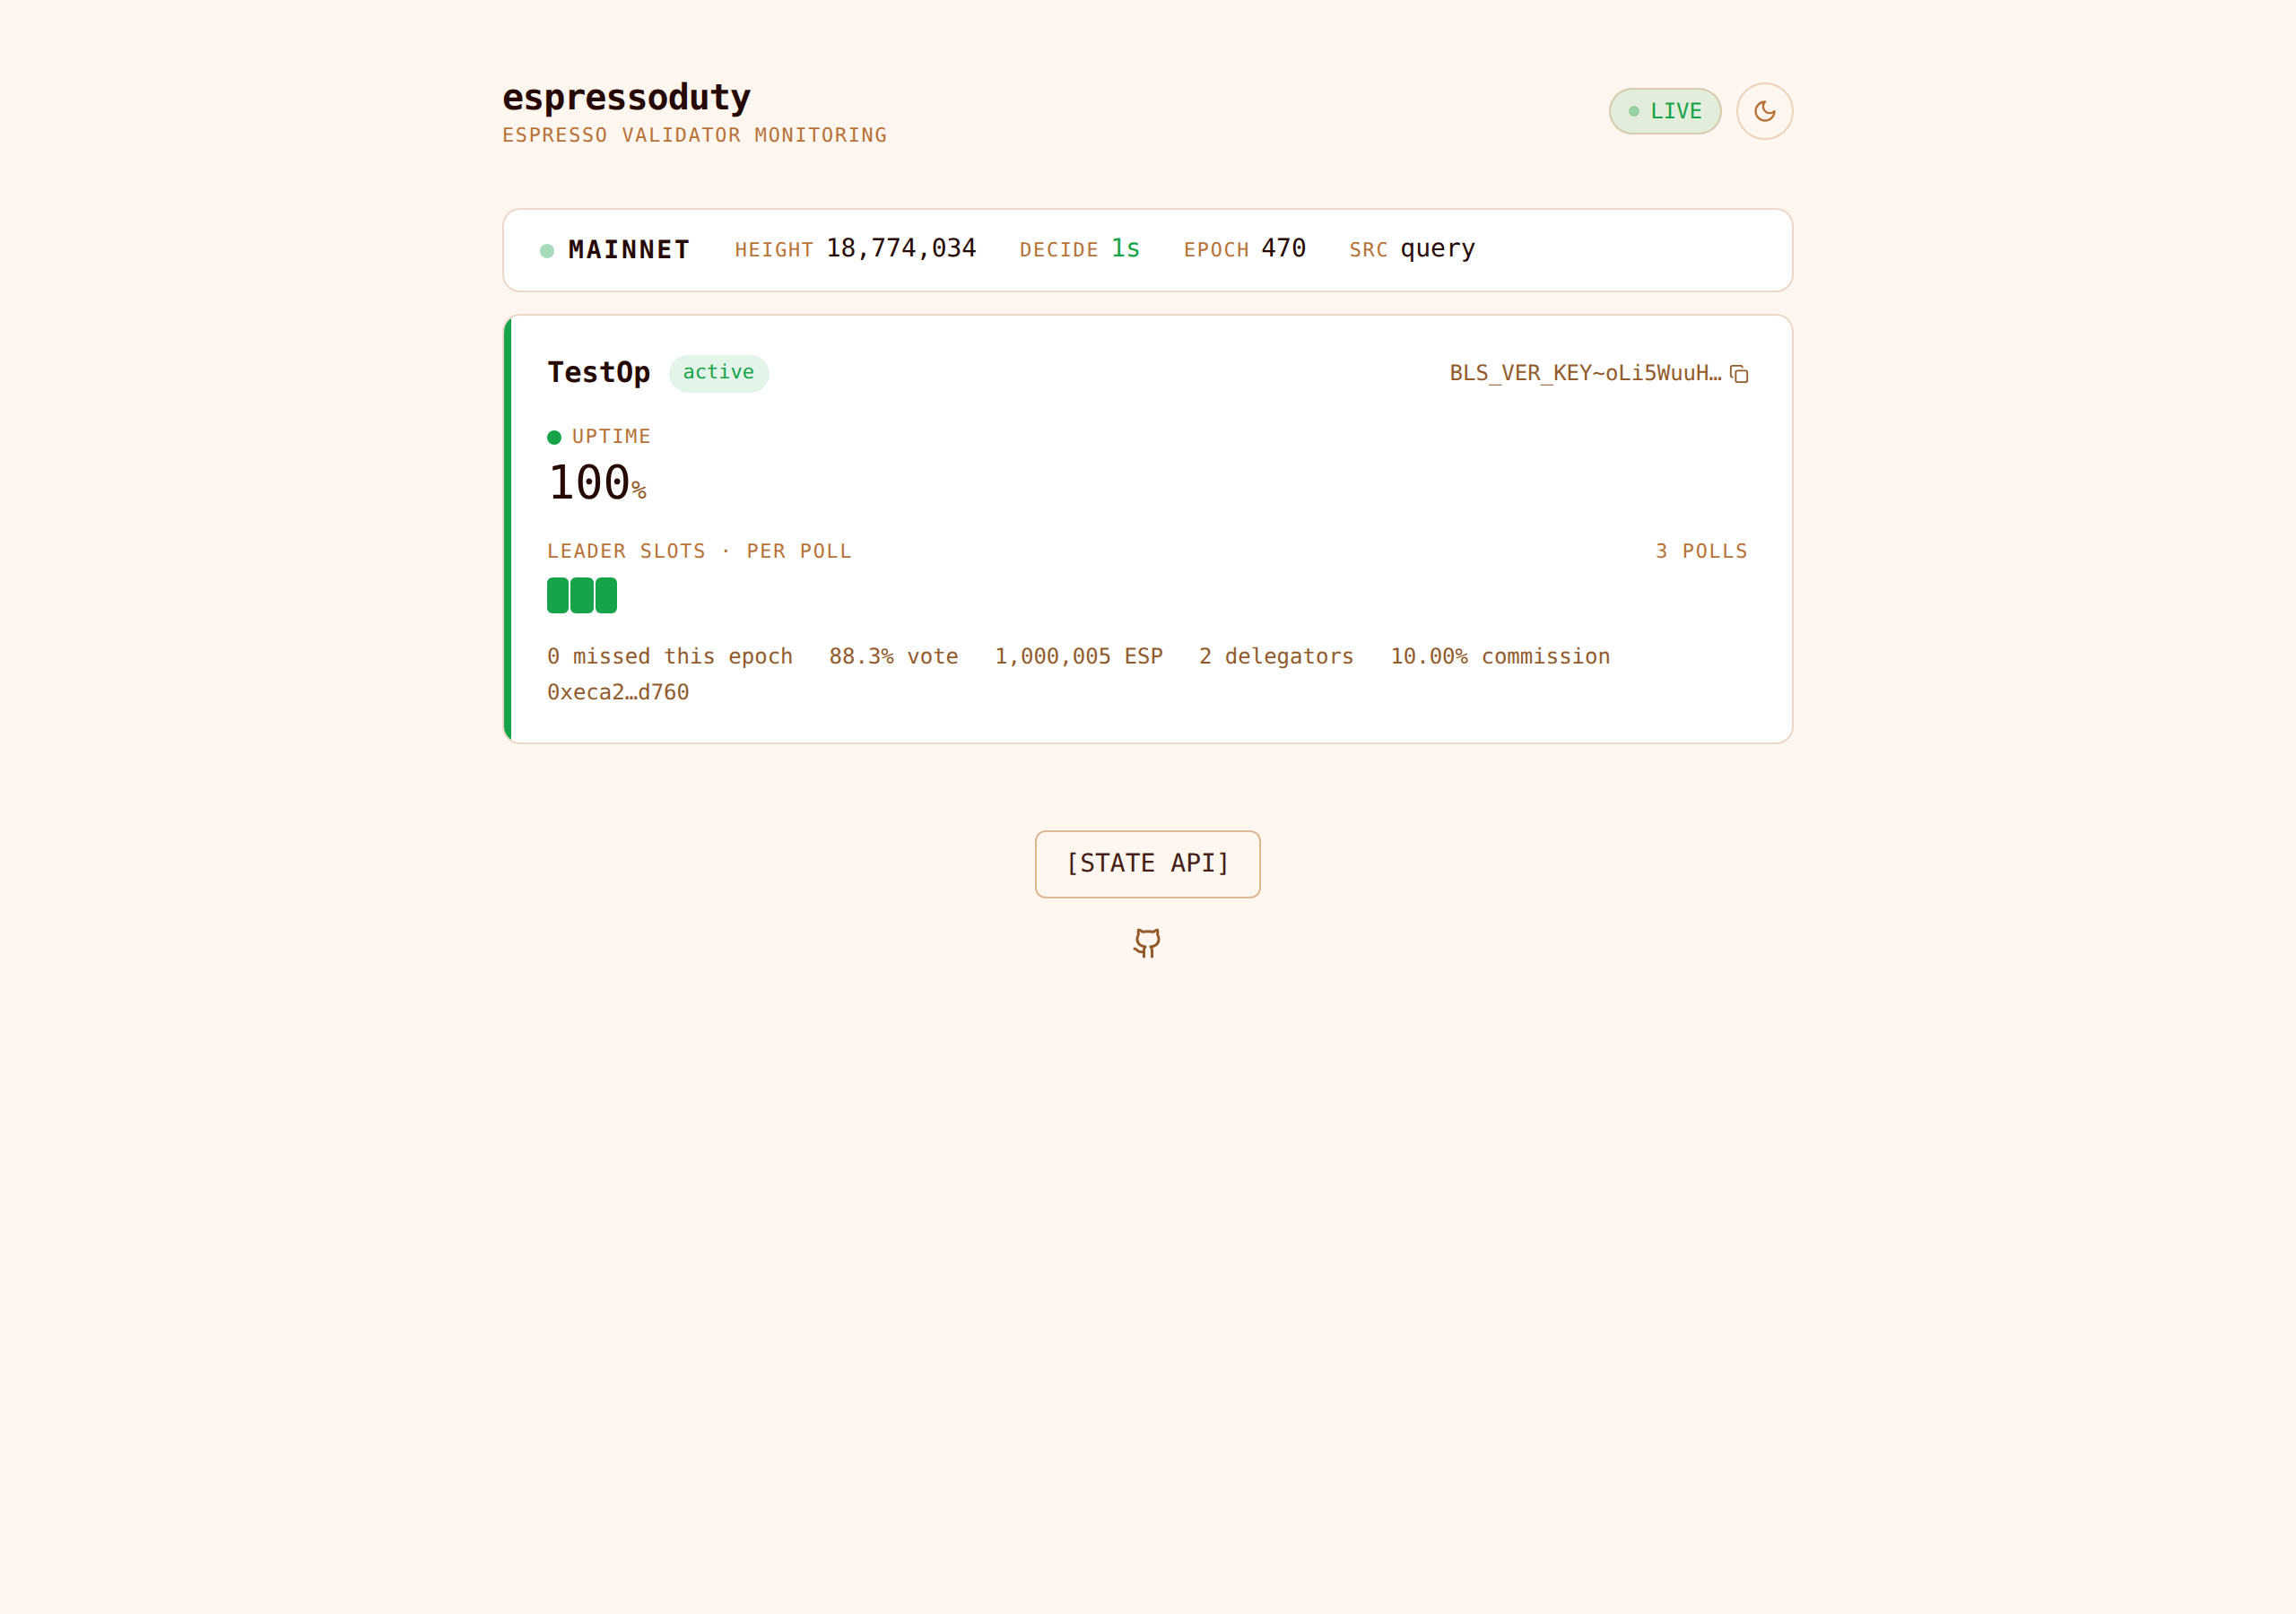
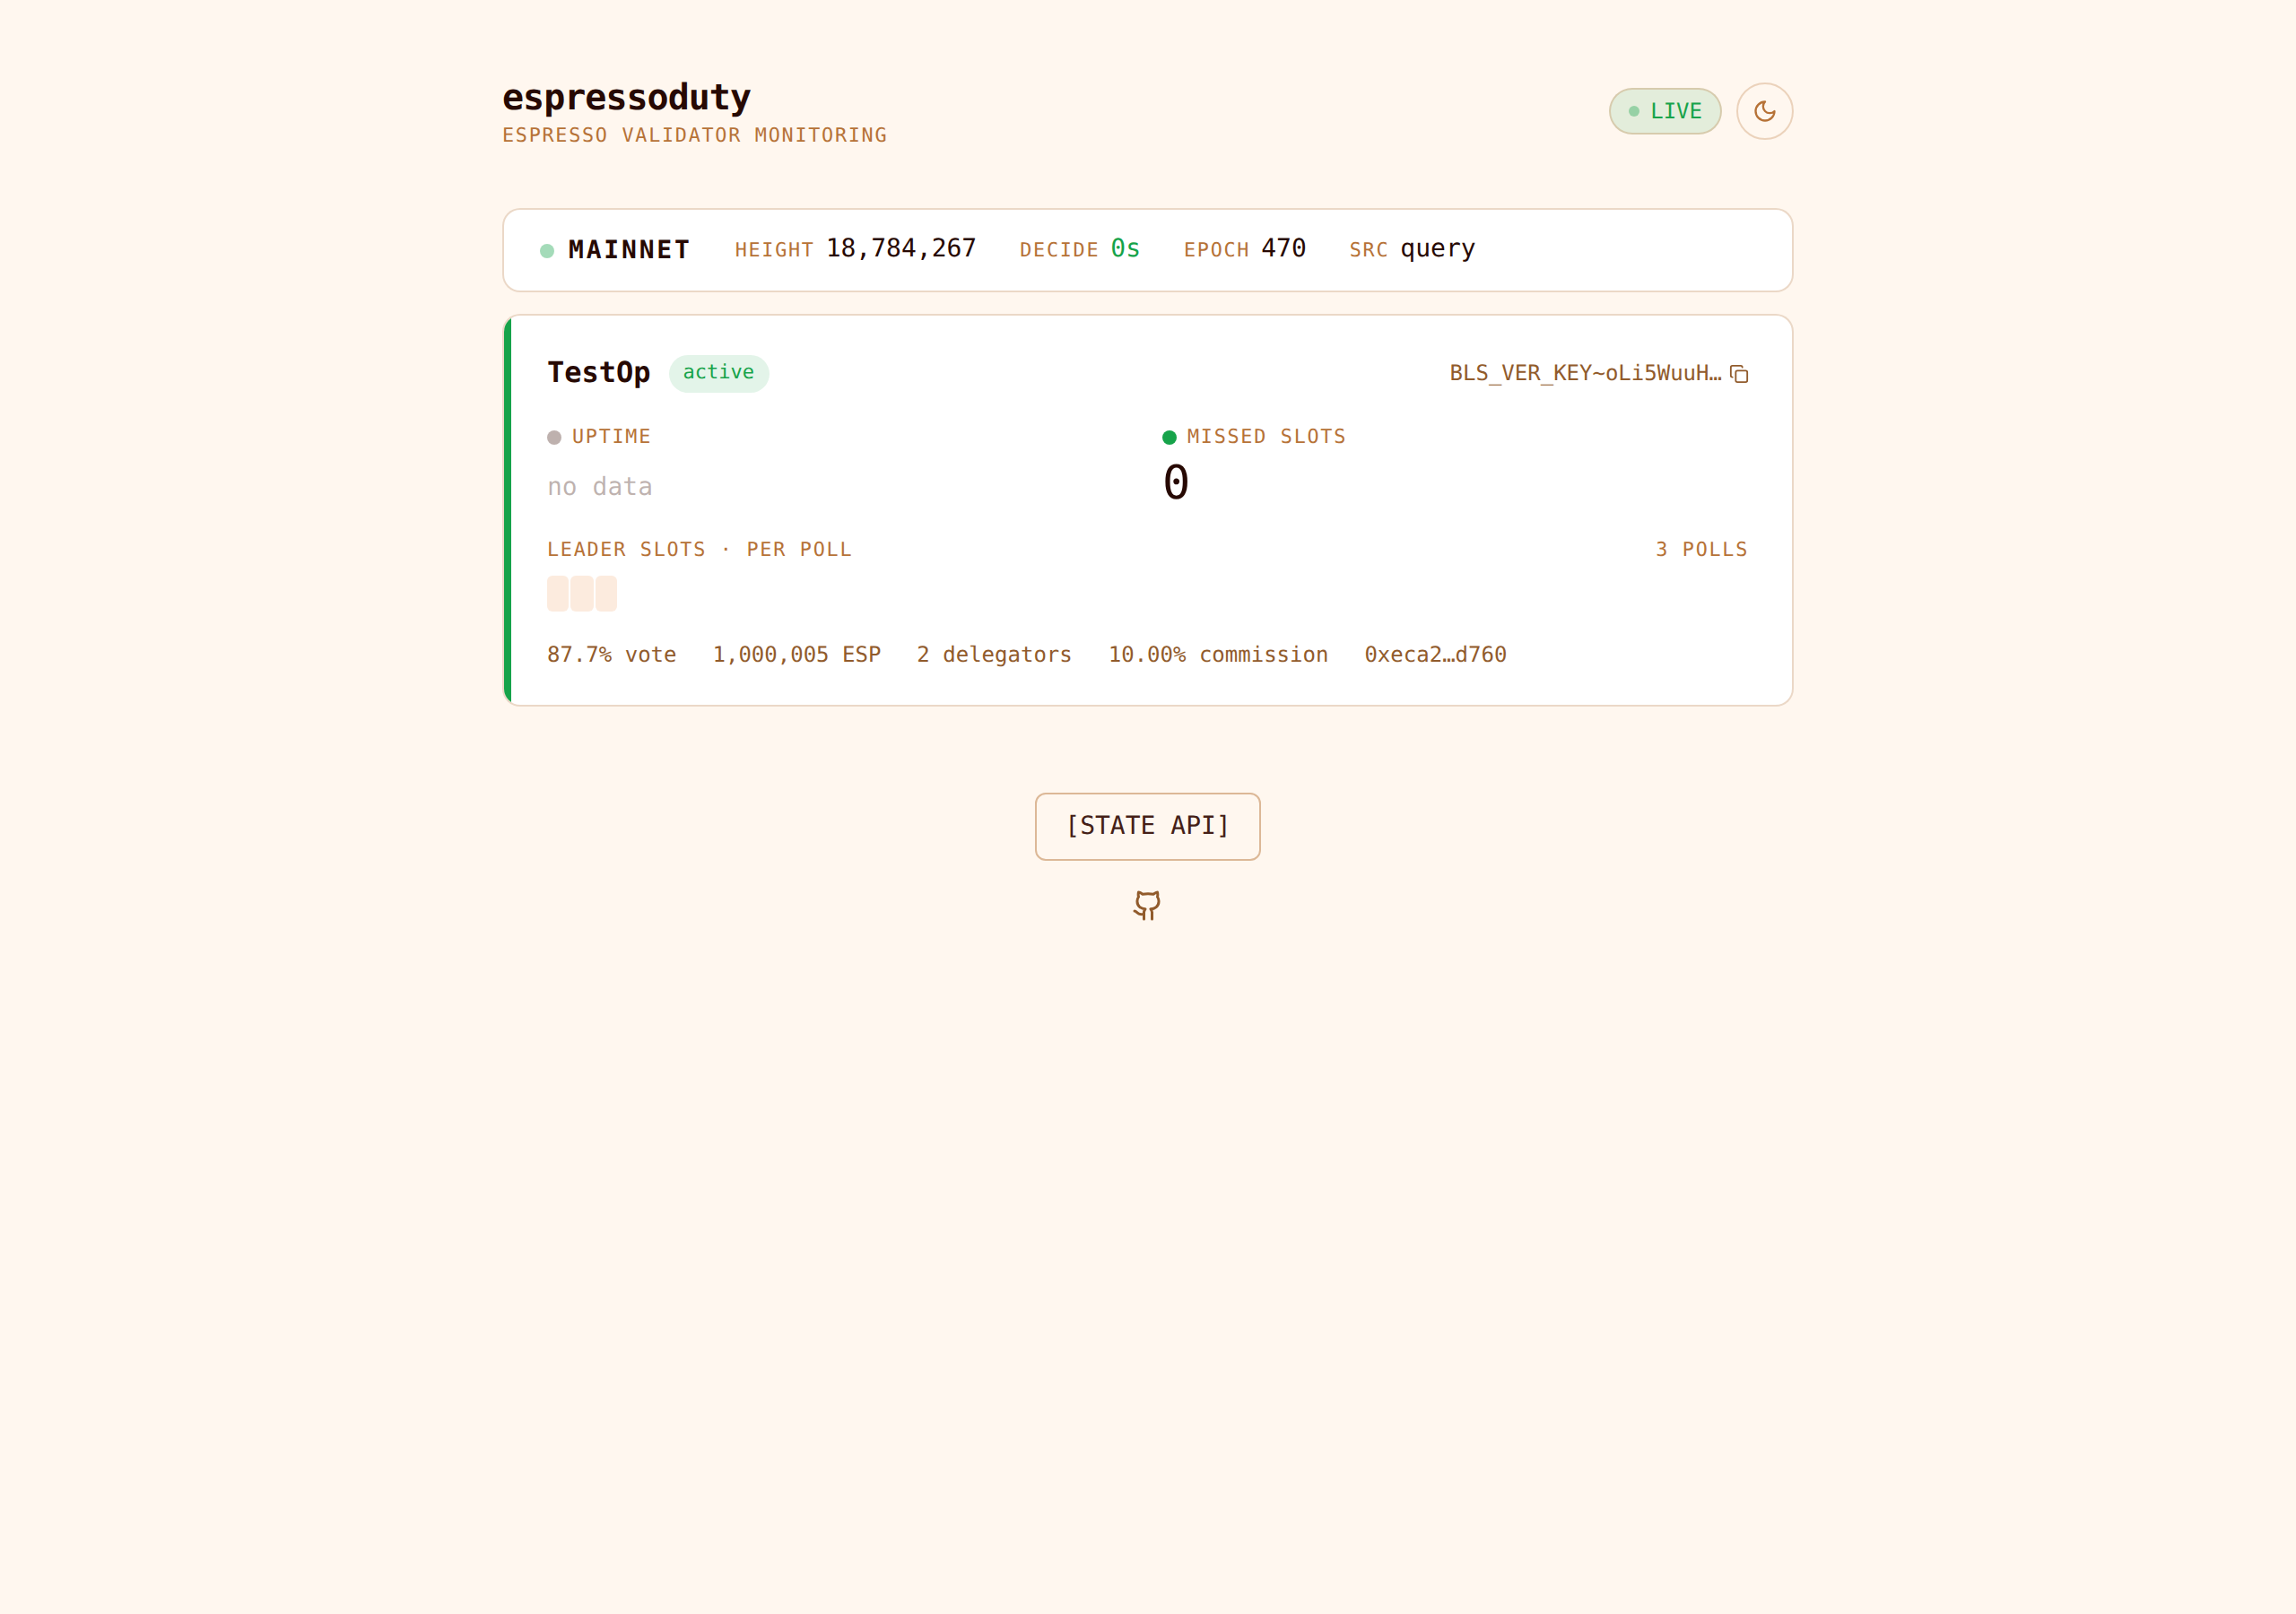
Missed-slot count beside uptime, escalation windows, BLS key lookup docs
The raw missed-slot count moves up from the stats row to a proper metric
beside uptime: exact numbers from the node's metrics when a local node
is configured (0 / 11, since node start), otherwise the miss events
observed this epoch. The dot turns red the moment the count is nonzero.

Alert cadence, per the operator's spec and all tunable:
- CONSECUTIVE_MISSES_WARN now defaults to 1: chat channels hear about
  the first missed leader slot; PagerDuty still waits for 3 in a row.
- The stuck window is time-based: last_decided_view must be frozen for
  STUCK_AFTER_MIN (5m) before the chat alert, replacing the 3-check
  (~45s) rule that fired on routine pauses in the live run.
- Local-down and stuck both escalate to PagerDuty only if the condition
  persists for LOCAL_DOWN_PAGE_MIN (10m), with paired resolves. Chat
  still hears about them immediately.

README: how to look up your BLS key from your L1 account via the public
API, and a line explaining what "decide" in the status bar means.

Claude-Session: https://claude.ai/code/session_01FRkiwdVzVrALZ52sRcU19e

diff --git a/src/lib/monitor.ts b/src/lib/monitor.ts
@@ -79,10 +79,10 @@ interface LocalMachine {
   /** Public query node used as the reference height for the lag check. */
   remoteBase: string | null;
   lastDecidedView: number | null;
-  stuckCount: number;
   stuckAlerted: boolean;
   stuckSince: number | null;
   stuckPdTriggered: boolean;
+  downPdTriggered: boolean;
 }
 
 const machines = new Map<NetworkName, NetworkMachine>();
@@ -787,8 +787,18 @@ async function pollLocalNode(): Promise<void> {
         title: 'Local node back online',
         lines: [`Reachable again${lm.downSince ? `, down for ${dur(lm.downSince)}` : ''}`],
       });
-      lm.downSince = null;
+      if (lm.downPdTriggered) {
+        lm.downPdTriggered = false;
+        await sendAlert({
+          severity: 'recovered',
+          title: 'Local node back online',
+          lines: ['Reachable again'],
+          dedupKey: 'espressoduty:local:down',
+          pagerduty: 'resolve',
+        });
+      }
     }
+    lm.downSince = null;
 
     // Lag is measured against a public query node, not our own view of the
     // height — the main client may itself be reading from the local node.
@@ -867,13 +877,14 @@ async function pollLocalNode(): Promise<void> {
               });
             }
           }
-          lm.stuckCount = 0;
           lm.stuckSince = null;
           view.stuck = false;
         } else if (networkOk) {
-          lm.stuckCount += 1;
           if (lm.stuckSince === null) lm.stuckSince = Date.now();
-          if (lm.stuckCount >= cfg.localDownFails) {
+          const stuckFor = Date.now() - lm.stuckSince;
+          // A view pausing for seconds is routine; only a sustained freeze
+          // while the network progresses is worth waking anyone for.
+          if (stuckFor >= cfg.stuckAfterMin * 60_000) {
             view.stuck = true;
             if (lm.initialized && !lm.stuckAlerted && cooldownOk('local:stuck')) {
               lm.stuckAlerted = true;
@@ -881,20 +892,20 @@ async function pollLocalNode(): Promise<void> {
                 severity: 'critical',
                 title: 'Node consensus stuck',
                 lines: [
-                  `last_decided_view has not advanced for ${lm.stuckCount} checks (view ${metrics.lastDecidedView})`,
+                  `last_decided_view frozen at ${metrics.lastDecidedView} for ${dur(lm.stuckSince)}`,
                   'The network is progressing, your node is not',
                 ],
               });
-              if (!lm.stuckPdTriggered) {
-                lm.stuckPdTriggered = true;
-                await sendAlert({
-                  severity: 'critical',
-                  title: 'Node consensus stuck',
-                  lines: [`View frozen at ${metrics.lastDecidedView}`],
-                  dedupKey: 'espressoduty:local:stuck',
-                  pagerduty: 'trigger',
-                });
-              }
+            }
+            if (lm.stuckAlerted && !lm.stuckPdTriggered && stuckFor >= cfg.localDownPageMin * 60_000) {
+              lm.stuckPdTriggered = true;
+              await sendAlert({
+                severity: 'critical',
+                title: 'Node consensus stuck',
+                lines: [`View frozen at ${metrics.lastDecidedView} for ${dur(lm.stuckSince)}`],
+                dedupKey: 'espressoduty:local:stuck',
+                pagerduty: 'trigger',
+              });
             }
           }
         }
@@ -910,13 +921,29 @@ async function pollLocalNode(): Promise<void> {
     if (lm.failCount >= cfg.localDownFails) {
       view.reachable = false;
       view.lagBlocks = null;
+      if (lm.downSince === null) lm.downSince = Date.now();
       if (lm.initialized && !lm.downAlerted && cooldownOk('local:down')) {
         lm.downAlerted = true;
-        lm.downSince = Date.now();
         await sendAlert({
           severity: 'critical',
           title: 'Local node unreachable',
           lines: [`${cfg.localNodeUrl} failed ${lm.failCount} consecutive checks`],
+        });
+      }
+      // Chat hears about it once, immediately; PagerDuty only if the node
+      // has not come back within the escalation window.
+      if (
+        lm.downAlerted &&
+        !lm.downPdTriggered &&
+        Date.now() - lm.downSince >= cfg.localDownPageMin * 60_000
+      ) {
+        lm.downPdTriggered = true;
+        await sendAlert({
+          severity: 'critical',
+          title: 'Local node unreachable',
+          lines: [`Down for ${dur(lm.downSince)}`],
+          dedupKey: 'espressoduty:local:down',
+          pagerduty: 'trigger',
         });
       }
     }
@@ -977,10 +1004,10 @@ export function startMonitoring(): void {
       initialized: false,
       remoteBase: mainnet?.queryNodes[0] ?? null,
       lastDecidedView: null,
-      stuckCount: 0,
       stuckAlerted: false,
       stuckSince: null,
       stuckPdTriggered: false,
+      downPdTriggered: false,
     };
     store.localNode = {
       url: cfg.localNodeUrl,

diff --git a/src/components/dashboard.tsx b/src/components/dashboard.tsx
@@ -284,37 +284,21 @@ function ValidatorCard({ v }: { v: ValidatorView }) {
       </div>
 
       {/* Leader duty is the health metric; everything else is context.
-          Shown as uptime (= proposal participation), the positive pole of
-          missed slots. */}
-      <div className="mb-4">
+          Uptime (= proposal participation) and the raw missed-slot count
+          side by side. */}
+      <div className="mb-4 grid grid-cols-2 gap-4">
         <Metric
           label="uptime"
           value={v.proposal}
           dot={missedColor(v.proposal === null ? null : 1 - v.proposal)}
           hint={v.proposal === null ? NO_SLOTS_HINT : undefined}
         />
+        <MissedCount v={v} />
       </div>
 
       <PollGrid samples={v.samples} />
 
       <p className="mt-4 flex flex-wrap gap-x-5 gap-y-1 text-xs" style={{ color: 'var(--muted)' }}>
-        <span
-          title={
-            v.leaderSlots !== null
-              ? 'Exact counts from your node since it started'
-              : 'Missed-slot events observed this epoch'
-          }
-          style={{
-            color:
-              (v.leaderSlots !== null ? (v.missedLeaderSlots ?? 0) : v.epochMissCount) > 0
-                ? 'var(--crit)'
-                : 'var(--muted)',
-          }}
-        >
-          {v.leaderSlots !== null
-            ? `missed ${v.missedLeaderSlots ?? 0}/${v.leaderSlots} slots`
-            : `${v.epochMissCount} missed this epoch`}
-        </span>
         <span title="Informational: measures the QC quorum race (latency), not node health">
           {v.vote === null ? '— vote' : `${fmtPct(v.vote, 1)} vote`}
         </span>
@@ -324,6 +308,41 @@ function ValidatorCard({ v }: { v: ValidatorView }) {
         {v.account && (
           <span className="tabular-nums" title={v.account}>
             {v.account.slice(0, 6)}…{v.account.slice(-4)}
+          </span>
+        )}
+      </p>
+    </div>
+  );
+}
+
+/**
+ * Raw missed-slot count: exact numbers from the node's own metrics when a
+ * local node is configured (since node start), otherwise the miss events
+ * observed this epoch.
+ */
+function MissedCount({ v }: { v: ValidatorView }) {
+  const local = v.leaderSlots !== null;
+  const count = local ? (v.missedLeaderSlots ?? 0) : v.epochMissCount;
+  return (
+    <div
+      title={
+        local
+          ? `${count} of ${v.leaderSlots} leader slots missed since the node started`
+          : 'Missed-slot events observed this epoch'
+      }
+    >
+      <p className="mb-1 flex items-center gap-1.5">
+        <span
+          className="h-2 w-2 shrink-0 rounded-full"
+          style={{ background: count > 0 ? 'var(--crit)' : 'var(--ok)' }}
+        />
+        <span className="label">missed slots</span>
+      </p>
+      <p className="text-[26px] font-medium leading-none tabular-nums" style={{ color: 'var(--text-strong)' }}>
+        {count}
+        {local && (
+          <span className="text-sm" style={{ color: 'var(--muted)' }}>
+            {' '}/ {v.leaderSlots}
           </span>
         )}
       </p>

diff --git a/src/lib/config.ts b/src/lib/config.ts
@@ -33,6 +33,10 @@ export interface Config {
    */
   consecutiveMissesWarn: number;
   consecutiveMissesCrit: number;
+  /** Minutes the local node may stay down/stuck before PagerDuty is paged. */
+  localDownPageMin: number;
+  /** Minutes without view progress before the stuck alert fires. */
+  stuckAfterMin: number;
   /** Display thresholds for the missed-slots color only, never alerts. */
   missedWarn: number;
   missedCritical: number;
@@ -108,8 +112,10 @@ export function loadConfig(): Config {
   cached = {
     networks,
     localNodeUrl: str('LOCAL_NODE_URL') || null,
-    consecutiveMissesWarn: Math.max(1, num('CONSECUTIVE_MISSES_WARN', 2)),
+    consecutiveMissesWarn: Math.max(1, num('CONSECUTIVE_MISSES_WARN', 1)),
     consecutiveMissesCrit: Math.max(2, num('CONSECUTIVE_MISSES_CRIT', 3)),
+    localDownPageMin: Math.max(1, num('LOCAL_DOWN_PAGE_MIN', 10)),
+    stuckAfterMin: Math.max(1, num('STUCK_AFTER_MIN', 5)),
     missedWarn: num('MISSED_WARN', 0.5),
     missedCritical: num('MISSED_CRITICAL', 0.9),
     decideStallSec: num('DECIDE_STALL_SEC', 60),

diff --git a/README.md b/README.md
@@ -31,10 +31,10 @@ espressoduty.
 The cumulative proposal rate only moves when your validator is leader, so
 its per-poll change is a real event:
 
-- rate fell = **missed leader slot**. `CONSECUTIVE_MISSES_WARN` (2) in a
-  row → Telegram / Slack / Discord; `CONSECUTIVE_MISSES_CRIT` (3) →
-  PagerDuty. One isolated miss can be bad luck; a streak means the node is
-  failing its critical duty.
+- rate fell = **missed leader slot**. `CONSECUTIVE_MISSES_WARN` (1) →
+  Telegram / Slack / Discord on the first miss; `CONSECUTIVE_MISSES_CRIT`
+  (3) in a row → PagerDuty. A streak means the node is failing its
+  critical duty; a successful proposal clears it.
 - rate rose = **successful proposal** → streak resets, recovery sent,
   PagerDuty incident resolved.
 - rate flat = no leader slot in that window (slots are sparse, that is
@@ -50,8 +50,9 @@ Also watched:
 |---|---|
 | Validator missing from the participation map (dropped from set / wrong key) | critical, pages |
 | No decide for 60s, cross-checked against other endpoints first | critical (warning if only the endpoint is stale) |
-| Local node unreachable (`LOCAL_DOWN_FAILS` consecutive fails) / lagging (`HEIGHT_LAG_BLOCKS`) | critical / warning |
-| Node consensus stuck: reachable but `last_decided_view` frozen while the network progresses (needs a local node with metrics) | critical, pages |
+| Local node unreachable (`LOCAL_DOWN_FAILS` consecutive fails): chat immediately, PagerDuty if still down after `LOCAL_DOWN_PAGE_MIN` (10m) | critical |
+| Local node lagging (`HEIGHT_LAG_BLOCKS`) | warning |
+| Node consensus stuck: reachable but `last_decided_view` frozen for `STUCK_AFTER_MIN` (5m) while the network progresses; PagerDuty after `LOCAL_DOWN_PAGE_MIN` (needs a local node with metrics) | critical |
 | Start / shutdown | info |
 
 While the local node is down or lagging, the miss counter freezes: the
@@ -72,6 +73,15 @@ pm2 start ecosystem.config.js   # or: docker compose up -d --build
 Dashboard: `http://localhost:3030`. Test alert:
 `curl -X POST http://localhost:3030/api/alert`
 
+Don't know your BLS key? Look it up from your validator's L1 account
+(the address must be lowercase):
+
+```bash
+Q=https://query.main.net.espresso.network/v1
+EPOCH=$(curl -s $Q/node/stake-table/current | jq .epoch)
+curl -s $Q/node/validators/$EPOCH | jq -r '."0xyouraddress".stake_table_key'
+```
+
 ## Configuration
 
 Everything lives in `.env` ([.env.example](.env.example) is the full list):
@@ -81,24 +91,28 @@ Everything lives in `.env` ([.env.example](.env.example) is the full list):
 | `MAINNET_VALIDATORS` | — | `Label=BLS_VER_KEY~...`, comma separated |
 | `QUERY_NODE` | public query service | Data source; comma-separate extras for failover |
 | `LOCAL_NODE_URL` | — | Your node's query service: local checks, instant stuck detection, exact slot counts |
-| `CONSECUTIVE_MISSES_WARN` / `CONSECUTIVE_MISSES_CRIT` | `2` / `3` | Missed leader slots in a row |
+| `CONSECUTIVE_MISSES_WARN` / `CONSECUTIVE_MISSES_CRIT` | `1` / `3` | Missed leader slots: chat / PagerDuty |
 | `LOCAL_DOWN_FAILS` / `HEIGHT_LAG_BLOCKS` | `3` / `50` | Local node monitoring |
+| `LOCAL_DOWN_PAGE_MIN` / `STUCK_AFTER_MIN` | `10` / `5` | Minutes before down pages / stuck alerts |
 | `POLL_INTERVAL_SEC` | `60` | Poll cadence |
 | `STATE_FILE` | `./state.json` | Restart-durable counters and grid |
 | `TELEGRAM_BOT_TOKEN` + `TELEGRAM_CHAT_ID`, `SLACK_WEBHOOK_URL`, `DISCORD_WEBHOOK_URL`, `PAGERDUTY_ROUTING_KEY` | — | Channels |
 
 ## Dashboard
 
-Each validator card leads with uptime (proposal participation, the positive
-pole of missed slots). The stats row shows exact counts from your node's
-metrics when a local node is configured (`missed 0/11 slots`, since node
-start) or the miss events observed this epoch otherwise, plus vote
-participation as a small neutral figure. Below it, a 50-slot leader-duty
-grid: one cell per poll, red when
+Each validator card shows uptime (proposal participation, the positive
+pole of missed slots) and, beside it, the raw missed-slot count: exact
+numbers from your node's metrics when a local node is configured
+(`0 / 11`, since node start) or the miss events observed this epoch
+otherwise. Vote participation sits as a small neutral figure in the stats
+row. Below, a 50-slot leader-duty grid: one cell per poll, red when
 the rate fell in that window (missed leader slot), green when it rose or
 held steady (duty intact), faint until the epoch has proposal data, empty
 when the poll returned no data. Thin lines mark epoch boundaries. The grid
-and counters survive restarts via `STATE_FILE`.
+and counters survive restarts via `STATE_FILE`. In the status line,
+`decide` is the seconds since the network finalized a block (a HotShot
+"decide"): 1-2s is normal, sustained growth means the network or the
+serving endpoint has a problem.
 
 Missed slots is Espresso's own headline metric (`1 - proposal_participation`,
 as on stake.espresso.network). Proposal tracking is live-only per node and